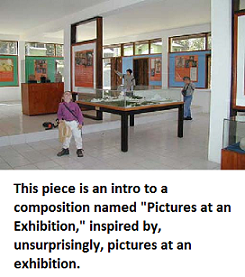
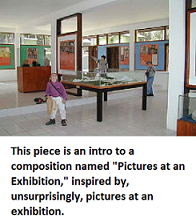
Deleted more serial stuff and resized image

diff --git a/AuthoringApp/src/src/Content.java b/AuthoringApp/src/src/Content.java
@@ -1,7 +1,3 @@
-<<<<<<< HEAD
-=======
-
->>>>>>> af92da8c6d4620371ac617f0d6fb5f7b90643c27
 
 import java.io.Serializable;
 
